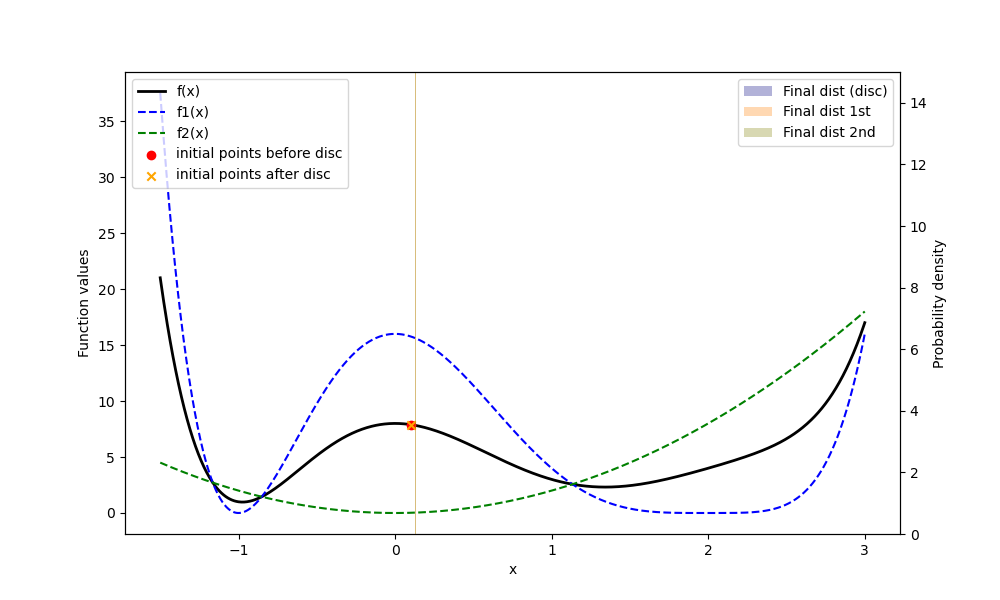
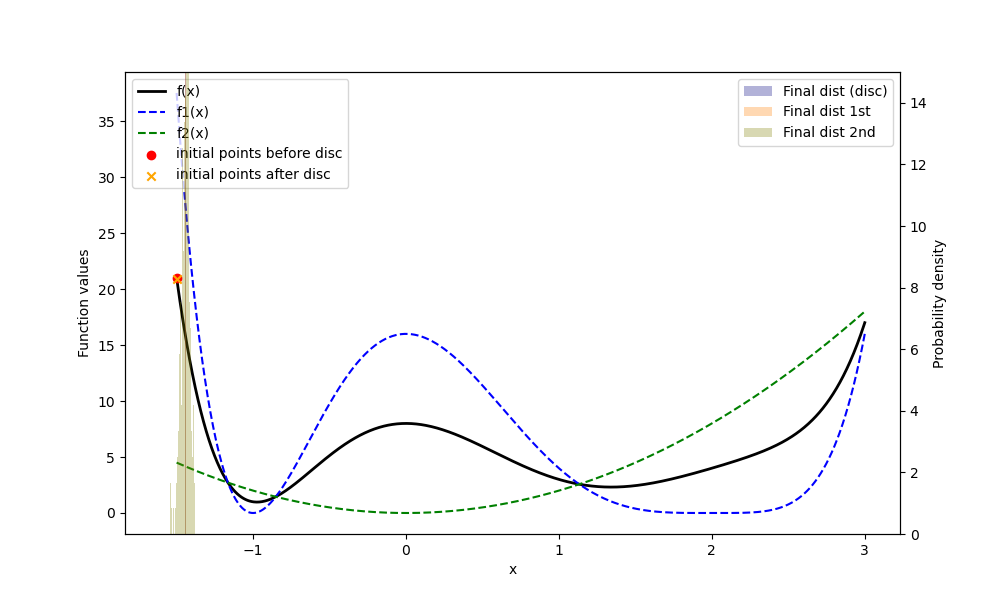
Update

diff --git a/Thesis/Code_2025-11-22/Poly/main.py b/Thesis/Code_2025-11-22/Poly/main.py
@@ -36,8 +36,8 @@ def parse_arguments() -> argparse.Namespace:
 
     # Training parameters
     train_group = parser.add_argument_group('Training Configuration')
-    # [2.5, 0.5, 0.1, 0.0, -0.1, -0.4, -1.3, -1.5]
-    train_group.add_argument('--initial_points', type=float, nargs='+', default=[2.5, 0.5, 0.1, 0.0, -0.1, -0.4, -1.3, -1.5], help='Initial points for optimization')
+    # [2.5, 0.5, 0.1,  -0.1, -0.4, -1.3, -1.5]
+    train_group.add_argument('--initial_points', type=float, nargs='+', default=[2.5, 0.5, 0.1,-0.1, -0.4, -1.3, -1.5], help='Initial points for optimization')
     train_group.add_argument('--tau-list', type=float, nargs='+', default=[0.05], help='Learning rate values to test')
     train_group.add_argument('--c', type=float, default=0.5, help='RMSProp scaling constant of beta')
     train_group.add_argument('--c-1', type=float, default=1, help='C 1 parameter for Adam optimizer')
@@ -449,10 +449,12 @@ def run_experiment_configuration(
 
     # wandb logging
     if args.wandb:
+        config = vars(args).copy()
+        config.update({'initial point bf disc' : initial_points_before_disc.item()})
         wandb.init(
             project='Poly2',
             name=f'{args.optimizer}{args.regime}_{initial_points_before_disc.item():.2f}_sigma{sigma_value:.2f}_BatchSize{args.batch_size_simulation}_tau{tau}_c{args.c}_time{final_time}',
-            config=vars(args).update({'initial point bf disc' : initial_points_before_disc.item()}),
+            config=config,
             notes='Comparison of discrete RMSProp with SDE approximations for shallow NN on California Housing dataset with comparison of loss, validation loss, norm of the theta and v and distribution of the final loss and final theta.',
             save_code=True
         )
@@ -538,10 +540,10 @@ if __name__ == "__main__":
 
 """
 Batch equivalent:
+python -m Poly.main --regime batch_equivalent --optimizer RMSProp --sigma -1 --batch-size-simulation 10; 
 python -m Poly.main --regime batch_equivalent --optimizer Adam --sigma -1 --batch-size-simulation 10;
 
 Balistic
-python -m Poly.main --regime batch_equivalent --optimizer RMSProp --sigma -1 --batch-size-simulation 10; 
 python -m Poly.main --regime balistic --optimizer RMSProp --sigma 0.07 --batch-size-simulation -1; 
 python -m Poly.main --regime balistic --optimizer RMSProp --sigma -1 --batch-size-simulation 10; 
 

diff --git a/Thesis/Code_2025-11-22/Algorithms/Utils.py b/Thesis/Code_2025-11-22/Algorithms/Utils.py
@@ -81,21 +81,18 @@ class SDE_basic(torchsde.SDEIto):
         if self.eq == 'RMSProp':
             aux = x.shape[1] // 2 
             theta, self.v = x[:, :aux], x[:, aux:2*aux]
-            if (self.v<0).sum() > 0 and self.verbose and t > self.last_neg_value + 1: 
-                print('Warning: negative values in v', (self.v<0).sum().item(), self.v.min().item(), 'at time ', t)
-                self.last_neg_value = t
             if self.theta_old is None or (self.theta_old != theta).any(): self.update_quantities(theta, t)
             self.theta = theta
         elif self.eq == 'Adam':
             aux = x.shape[1] // 3
             theta, self.m, self.v = x[:, :aux], x[:, aux:2*aux], x[:, 2*aux:]
-            if (self.v<0).sum() > 0 and self.verbose and t > self.last_neg_value + 1: 
-                print('Warning: negative values in v', (self.v<0).sum().item(), self.v.min().item(), 'at time ', t)
-                self.last_neg_value = t
             if self.theta_old is None or (self.theta_old != theta).any(): self.update_quantities(theta, t)
             self.theta = theta
         else:
             raise ValueError(f"Unknown equation type: {self.eq}")
+        if (self.v<0).sum() > 0 and self.verbose and t > self.last_neg_value + 1: 
+            print('Warning: negative values in v', (self.v<0).sum().item(), self.v.min().item(), 'at time ', t)
+            self.last_neg_value = t
 
 def get_regime_functions(regime: str, optimizer: str) -> Dict[str, Any]:
     """

diff --git a/Thesis/Code_2025-11-22/Algorithms/Balistic_regime_Adam.py b/Thesis/Code_2025-11-22/Algorithms/Balistic_regime_Adam.py
@@ -118,13 +118,6 @@ class Adam_SDE_2order_balistic_regime(SDE_basic):
         self.diffusion = torch.sqrt(self.eta) * torch.cat((M_top, M_middle, M_bottom), dim=1)
      
         return self.diffusion
-    
-    def divide_input(self, x, t):
-        aux = x.shape[1] // 3
-        theta, self.m, self.v = x[:, :aux], x[:, aux:2*aux], x[:, 2*aux:]
-        if (self.v<0).sum() > 0 and self.verbose: print('Warning: negative values in v', (self.v<0).sum().item(), self.v.min().item(), 'at time ', t)
-        if self.theta_old is None or (self.theta_old != theta).any(): self.update_quantities(theta, t)
-        self.theta = theta
   
 
 class Adam_SDE_1order_balistic_regime(Adam_SDE_2order_balistic_regime):

diff --git a/Thesis/Code_2025-11-22/Algorithms/Batch_eq_regime_RMSProp.py b/Thesis/Code_2025-11-22/Algorithms/Batch_eq_regime_RMSProp.py
@@ -108,12 +108,6 @@ class RMSprop_SDE_2order_batch_eq_regime(SDE_basic):
 
         return self.diffusion
     
-    def divide_input(self, x, t):
-        aux = x.shape[1] // 2 
-        theta, self.v = x[:, :aux], x[:, aux:2*aux]
-        if (self.v<0).sum() > 0 and self.verbose: print('Warning: negative values in v', (self.v<0).sum().item(), self.v.min().item(), 'at time ', t)
-        if self.theta_old is None or (self.theta_old != theta).any(): self.update_quantities(theta, t)
-        self.theta = theta
     
 class RMSprop_SDE_1order_batch_eq_regime(RMSprop_SDE_2order_batch_eq_regime):
     def f(self, t, x):

diff --git a/Thesis/Code_2025-11-22/Algorithms/Balistic_regime_RMSProp.py b/Thesis/Code_2025-11-22/Algorithms/Balistic_regime_RMSProp.py
@@ -177,6 +177,7 @@ def Discrete_RMProp_balistic_regime(funz, noise, lr, beta, c, num_steps, x_0, sk
     noise_shuffled = noise[torch.randperm(noise.shape[0])]
     
     temp = 0
+    temp1 = 0
     for step in range(num_steps-1):
         if step % max_lenghth_gamma_list == 0:            
             indices = torch.randint(0, noise_shuffled.shape[0], (batch_size, max_lenghth_gamma_list))
